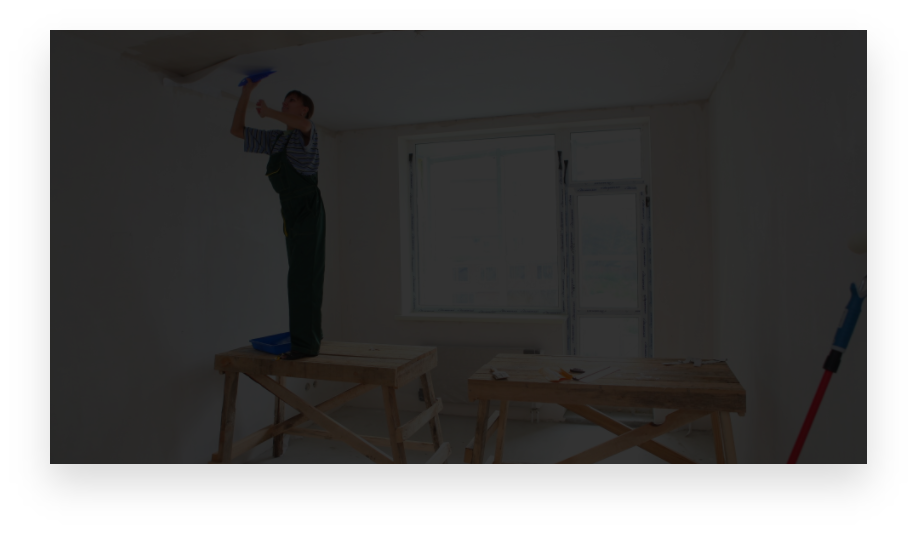
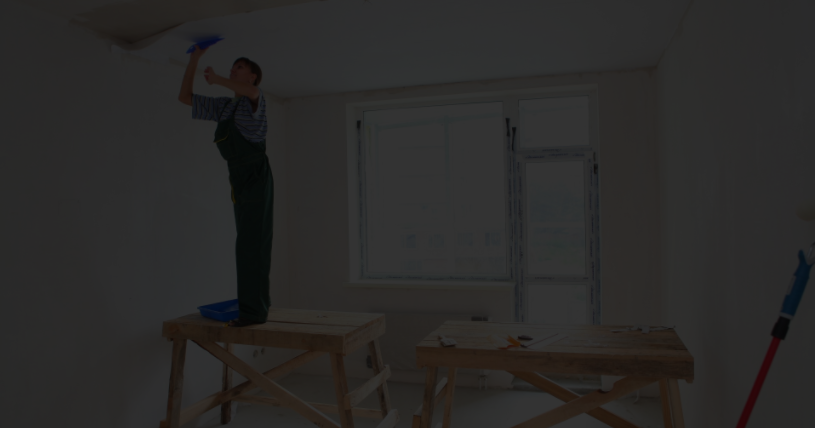
Добавлена новая картинка - mobile__completed.png Изменены - control__video.png, map.png
index: новая картинка в completed;
добавлен control__wrap;
добавлена кнопка - control__inputs_button.

css - прописаны стили для: hidden;
поменяли height для .header;
другая позиция для фона .request;
добавлен width для .map__img;
прописаны стили в медиа для размера 375px - mobile;

diff --git a/pages/index.html b/pages/index.html
@@ -60,6 +60,7 @@
         <h2 class="completed__desk_title">Completed projects</h2>
         <p class="completed__desk_text">Only a small part of the work performed by our company is presented on the site. For 14 years on in the construction market we have made happy more than 1000 families</p>
       </section>
+      <img src="../image/mobile__completed.png" alt="Изоображения готовой комнаты" class="completed__img hidden">
       <section class="completed__parameters">
         <div class="completed__paremeters_element">
           <h2 class="completed__paremeters_element_title">City:</h2>
@@ -85,35 +86,37 @@
 
     <!-- start control -->
     <section class="control">
-      <h3 class="control__title">online control</h3>
-      <div class="control__wrap_video">
-        <img src="../image/control__video.png" alt="Видео с работой мастера" class="control_img">
-        <img src="../image/svg/control__video-play.svg" alt="Включить" class="control__play">
+      <div class="control__wrap">
+        <h3 class="control__title">online control</h3>
+        <div class="control__wrap_video">
+          <img src="../image/control__video.png" alt="Видео с работой мастера" class="control__img">
+          <img src="../image/svg/control__video-play.svg" alt="Включить" class="control__play">
+        </div>
+        <p class="control__text">At each facility, a camera is installed that broadcasts the progress of work on the clock. At any time, you can go to our website and monitor the progress of work in your apartment. You can watch the live broadcast from one of our facilities! Leave a request below and you will receive a link to the broadcast.</p>
+        <section class="control__inputs">
+          <label for="input" class="control__inputs_input">
+            <p class="control__inputs_input_text form__text">Name</p>
+            <input type="text" name="Name" class="control__inputs_input_form form__input" placeholder="What is your name:">
+          </label>
+          <label for="input" class="control__inputs_input">
+            <p class="control__inputs_input_text form__text">Phone</p>
+            <input type="tel" name="Phone" class="control__inputs_input_form form__input" placeholder="Your phone number:">
+          </label>
+          <button class="control__inputs_button button__orange">
+            <p class="control__inputs_button_text">Submit</p>
+          </button>
+        </section>
+        <label class="control__checkbox">
+          <input type="checkbox" class="control__checkbox_input form__checkbox">
+          <span class="control__checkbox_input_fake form__checkbox-fake"></span>
+          <span class="control__checkbox_input_text form__checkbox-text">I agree to the processing of personal data.</span>
+        </label>
       </div>
-      <p class="control__text">At each facility, a camera is installed that broadcasts the progress of work on the clock. At any time, you can go to our website and monitor the progress of work in your apartment. You can watch the live broadcast from one of our facilities! Leave a request below and you will receive a link to the broadcast.</p>
-      <section class="control__inputs">
-
-        <label for="input" class="control__inputs_input">
-          <p class="control__inputs_input_text form__text">Name</p>
-          <input type="text" name="Name" class="control__inputs_input_form form__input" placeholder="What is your name:">
-        </label>
-
-        <label for="input" class="control__inputs_input">
-          <p class="control__inputs_input_text form__text">Phone</p>
-          <input type="tel" name="Phone" class="control__inputs_input_form form__input" placeholder="Your phone number:">
-        </label>
-
-        <button class="control__inputs_button button__orange">
-          <p class="control__inputs_button_text">Submit</p>
-        </button>
-      </section>
-
-      <label class="control__checkbox">
-        <input type="checkbox" class="control__checkbox_input form__checkbox">
-        <span class="control__checkbox_input_fake form__checkbox-fake"></span>
-        <span class="control__checkbox_input_text form__checkbox-text">I agree to the processing of personal data.</span>
-      </label>
+      <button class="control__inputs_button button__orange hidden">
+        <p class="control__inputs_button_text">Submit</p>
+      </button>
     </section>
+
     <!-- end control -->
 
     <!-- start types -->

diff --git a/pages/style.css b/pages/style.css
@@ -52,10 +52,13 @@ img {
   border-radius: 2px;
 }
 
+.hidden {
+  display: none;
+}
+
 /* start header */
 
 .header {
-  max-height: 83px;
   background-color: rgb(19, 19, 19);
   display: flex;
   flex-flow: row nowrap;
@@ -511,7 +514,7 @@ span {
 /* start request */
 
 .request {
-  background: url(../image/bg__request.png) no-repeat -50% -80%;
+  background: url(../image/bg__request.png) no-repeat -100%;
   display: flex;
   flex-flow: column nowrap;
   align-items: end;
@@ -934,6 +937,7 @@ span {
 }
 
 .map__img {
+  max-width: 100%;
   margin-bottom: 65px;
 }
 
@@ -977,8 +981,200 @@ span {
 
 /* Start mobile side */
 
-@media screen and (max-width: 377px) {
-  .header__links {
+@media screen and (max-width: 376px) {
+
+  body {
+    max-width: 375px;
+  }
+
+  .header__links,
+  .header__button,
+  .completed__list,
+  .completed__img,
+  .control__inputs_button {
+    display: none;
+  }
+
+  .hidden {
+    display: initial;
+  }
+
+  .header {
+    padding: 23px 18px;
+  }
+
+  .header__logo {
+    white-space: nowrap;
+    margin-right: 0px;
+  }
+
+  .header__phone {
+    white-space: nowrap;
+    color: rgb(255, 255, 255);
+    font-size: 11px;
+    line-height: 15px;
+    text-align: right;
+    margin-right: 0px;
+  }
+
+  .hero {
+    padding: 85px 18px 35px;
+    justify-content: center;
+  }
+
+  .hero__wrap {
+    max-width: 339px;
+    display: flex;
+    flex-flow: column nowrap;
+    align-items: center;
+  }
+
+  .hero__title,
+  .hero__title>span {
+    font-size: 23px;
+    line-height: 132.83%;
+    margin-bottom: 16px;
+  }
+
+  .hero__desk {
+    font-size: 14px;
+    line-height: 135.84%;
+    margin-bottom: 32px;
+  }
+
+  .hero__button {
+    width: 338.61px;
+    margin: 0 0 26px;
+    padding: 19px 0;
+  }
+
+  .completed {
+    max-width: 375px;
+    display: flex;
+    flex-flow: column nowrap;
+    gap: 36px;
+    padding: 36px 17px 0px;
+  }
+
+  .completed__desk_title {
+    font-size: 22px;
+    line-height: 138.6%;
+    text-align: center;
+    align-self: center;
+  }
+
+  .completed__desk_text {
+    font-size: 11px;
+    line-height: 158.48%;
+    text-align: center;
+  }
+
+  .completed__parameters {
+    grid-template-columns: 99px auto;
+    grid-template-rows: 68px 44px;
+    gap: 27px 61px;
+  }
+
+  .completed__paremeters_element_title {
+    font-size: 14px;
+    line-height: 138.6%;
+  }
+
+  .completed__paremeters_element_text {
+    font-size: 11px;
+    line-height: 135.84%;
+    text-transform: none;
+  }
+
+  .control {
+    margin: 0 auto;
+    margin-bottom: 58px;
+  }
+
+  .control__wrap {
+    max-width: 375px;
+    background-color: rgb(19, 19, 19);
+    padding: 0 18px 88px;
+    margin: 0 auto;
+  }
+
+  .control__title {
+    margin-top: 22px;
+  }
+
+  .control__wrap_video {
+    margin-bottom: 28px;
+  }
+
+  .control__img {
+    width: 340px;
+  }
+
+  .control__play {
+    top: 33%;
+    left: 42%;
+    width: 60px;
+  }
+
+  .control__text {
+    color: rgb(255, 255, 255);
+    font-size: 11px;
+    line-height: 169.8%;
+    margin-bottom: 61px;
+  }
+
+  .control__text::before {
+    left: 142px;
+  }
+
+  .control__inputs {
+    flex-flow: column nowrap;
+    gap: 63px;
+    margin-bottom: 28px;
+  }
+
+  .control__inputs_input:nth-child(1) {
+    margin-right: 0px;
+  }
+
+  .control__inputs_input_form {
+    background-color: rgb(19, 19, 19);
+  }
+
+  .control__inputs_input_text {
+    color: rgba(255, 255, 255, 0.5);
+  }
+
+  .control__inputs_input_form {
+    width: 339.99px;
+    border-bottom: 1px solid rgb(255, 255, 255);
+    color: #ffffff;
+  }
+
+  .control__inputs_input_form::placeholder {
+    color: rgb(255, 255, 255);
+    line-height: 138.72%;
+    text-align: left;
+  }
+
+  .control__checkbox_input_text {
+    color: rgb(255, 255, 255);
+    font-size: 14px;
+    line-height: 163.68%;
+  }
+
+  .control__inputs_button {
+    margin-top: -26px;
+    box-shadow: 0px 10px 20px 0px rgba(227, 184, 115, 0.1);
+    padding: 20px 147px;
+  }
+
+  .types,
+  .request,
+  .fantasies,
+  .clients,
+  .wrapper__bg,
+  .footer {
     display: none;
   }
 }
